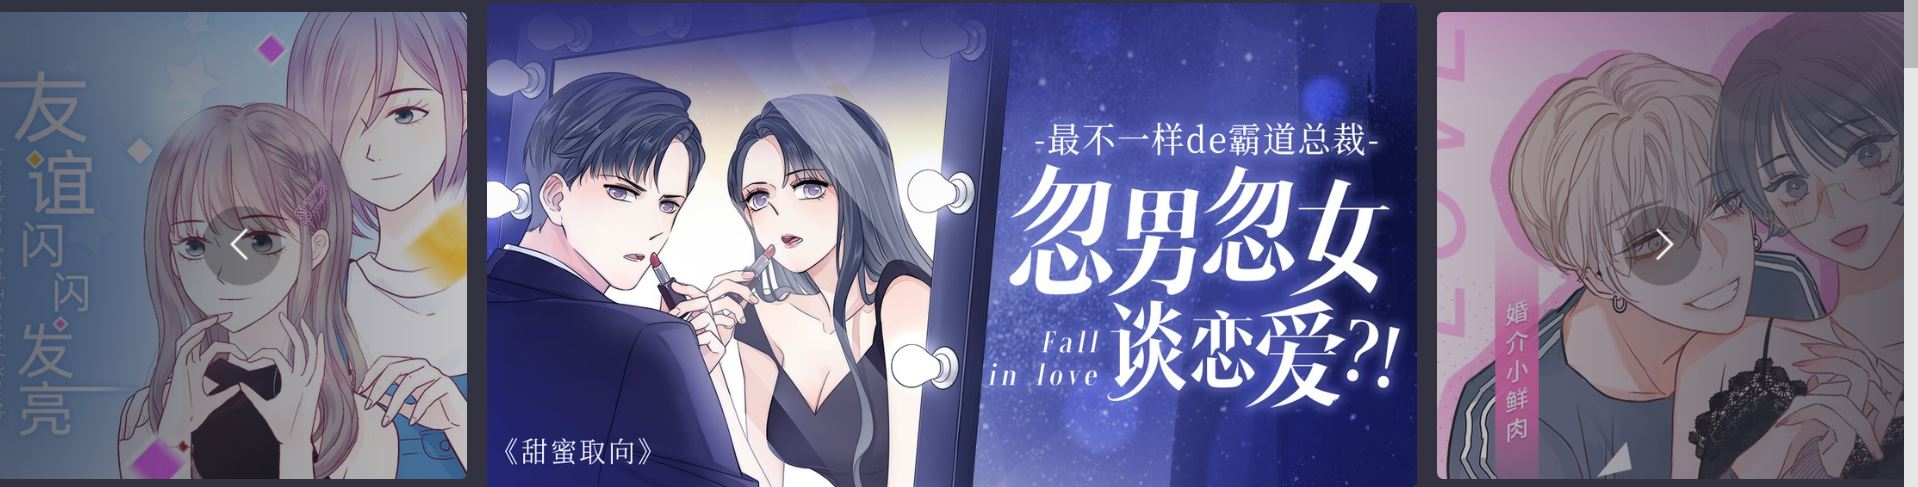
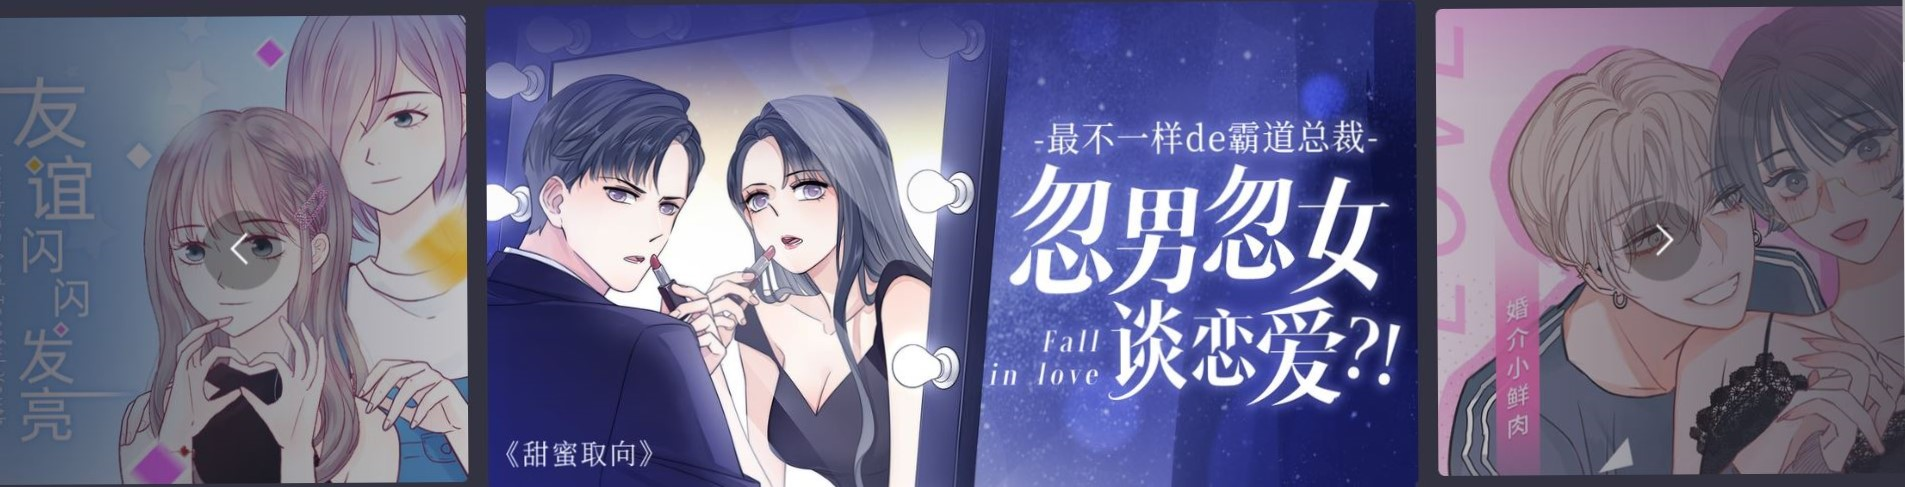
lz

diff --git a/css/shouye.css b/css/shouye.css
@@ -64,6 +64,8 @@ a{
 }
 .content.text{
     float: left;
+    width: 1200px;
+    margin:0 auto;
 }
 .text>ul>li{
     float: left;
@@ -89,6 +91,8 @@ a{
 .all{
     margin:40px 180px;
     height: 800px;
+    width: 1200px;
+    margin:0 auto;
 }
 h1{
     font-weight: 500;
@@ -135,6 +139,8 @@ h1{
 }
 .zuixia{
     margin:40px 180px;
+    width: 1200px;
+    margin:0 auto;
 }
 .zzuo{
     float: left;

diff --git a/shouye.html b/shouye.html
@@ -34,7 +34,8 @@
         </div>
         <!-- 图下导航 -->
         <div class="content">
-            <img src="image/gundong.jpg" style="width: 100%;margin-top: 25px;">
+            <img src="image/gundong.jpg" style="width: 100%;margin-top: 25px;width: 1200px;
+            margin:0 auto;">
             <div class="text">
                 <ul>
                     <li>恋爱</li>
